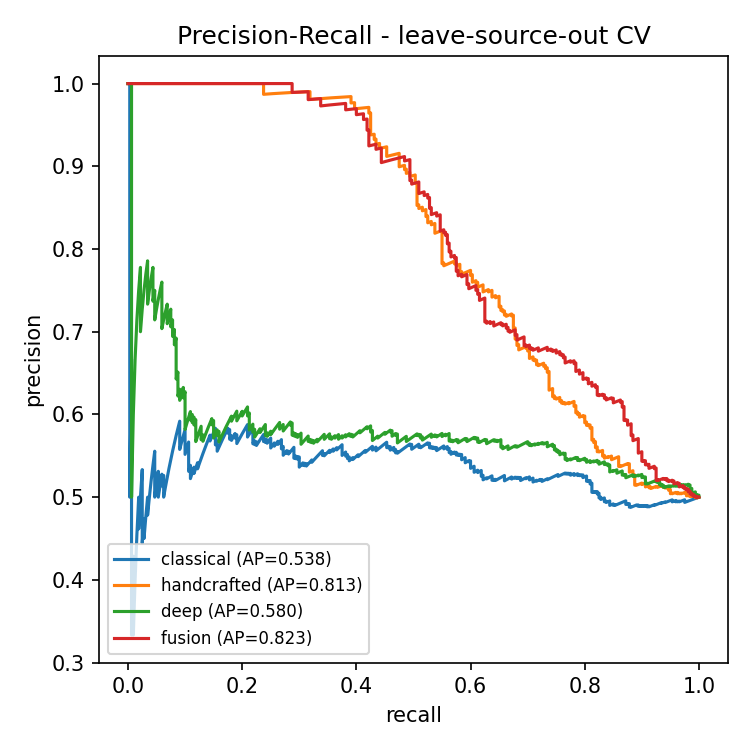
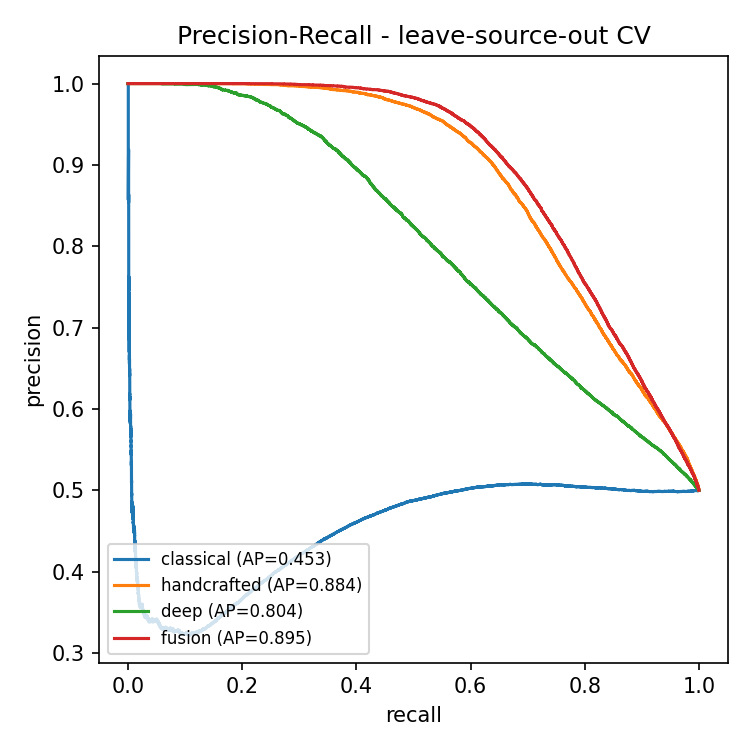
Regenerate paper figures and results

diff --git a/paper/results.md b/paper/results.md
@@ -1,38 +1,38 @@
 # Evaluation results
 
 _Protocol: leave-source-out 5-fold GroupKFold (classifier=gboost, seed=0)_  
-_Corpus: 160 images -> 160 sources -> 640 pseudo-samples (320 real / 320 fake)_
+_Corpus: 160 images -> 7680 sources -> 61440 pseudo-samples (30720 real / 30720 fake)_
 
 ## Ablation (cross-validated out-of-fold)
 
 | Model | AUC | AP | Acc | Precision | Recall | F1 | Brier |
 |---|---|---|---|---|---|---|---|
-| classical (fixed weights) | 0.546 | 0.538 | 0.559 | 0.559 | 0.562 | 0.561 | 0.250 |
-| handcrafted | 0.751 ±0.028 | 0.813 | 0.706 | 0.748 | 0.622 | 0.679 | 0.194 |
-| deep | 0.595 ±0.013 | 0.580 | 0.575 | 0.562 | 0.678 | 0.615 | 0.244 |
-| fusion | 0.777 ±0.015 | 0.823 | 0.694 | 0.709 | 0.656 | 0.682 | 0.189 |
+| classical (fixed weights) | 0.457 | 0.453 | 0.510 | 0.507 | 0.733 | 0.599 | 0.275 |
+| handcrafted | 0.853 ±0.003 | 0.884 | 0.785 | 0.849 | 0.693 | 0.763 | 0.149 |
+| deep | 0.768 ±0.003 | 0.804 | 0.702 | 0.751 | 0.604 | 0.670 | 0.192 |
+| fusion | 0.864 ±0.004 | 0.895 | 0.797 | 0.861 | 0.709 | 0.778 | 0.143 |
 
 ## Per-artifact recall (fusion)
 
 | Artifact | Recall | n |
 |---|---|---|
-| spectral_inject | 0.485 | 101 |
-| double_jpeg | 0.521 | 94 |
-| self_blend | 0.592 | 98 |
-| diffusion_smooth | 0.872 | 94 |
-| upsample_fingerprint | 0.962 | 104 |
+| double_jpeg | 0.431 | 9239 |
+| spectral_inject | 0.727 | 9245 |
+| self_blend | 0.729 | 9340 |
+| diffusion_smooth | 0.870 | 9325 |
+| upsample_fingerprint | 0.915 | 9050 |
 
 ## External validation (labelled test set)
 
 | Metric | Value |
 |---|---|
-| auc | 0.553 |
-| ap | 0.562 |
-| accuracy | 0.527 |
-| precision | 0.522 |
-| recall | 0.643 |
-| f1 | 0.576 |
-| brier | 0.257 |
+| auc | 0.329 |
+| ap | 0.397 |
+| accuracy | 0.492 |
+| precision | 0.496 |
+| recall | 0.980 |
+| f1 | 0.658 |
+| brier | 0.406 |
 
 ## Figures
 
